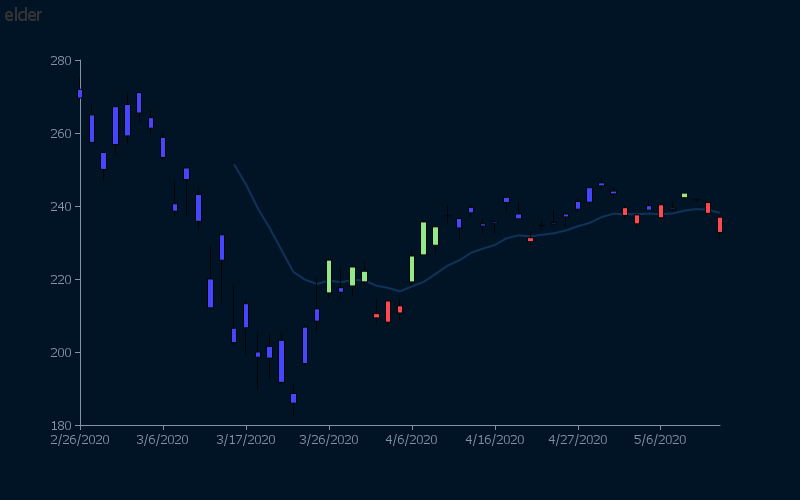
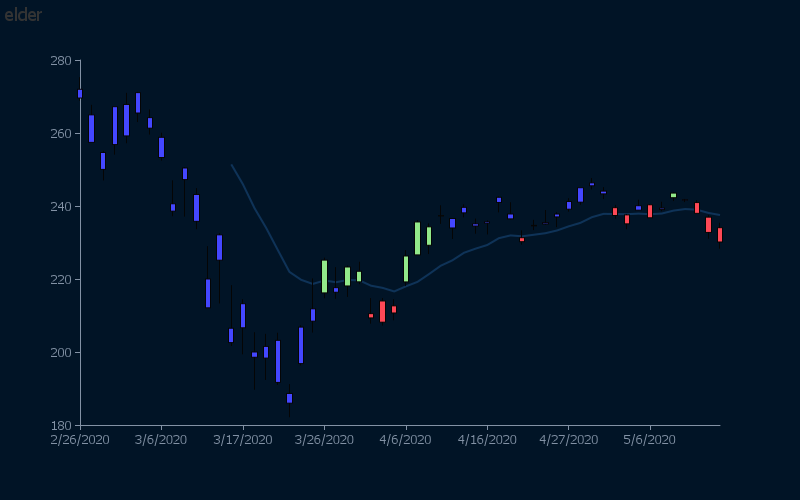
color change manually

diff --git a/graph/update/index.js b/graph/update/index.js
@@ -267,31 +267,64 @@ async function getNewData( symbol, colorData ) {
 }
 
 const getReadyColors = () => {
-    var colors = {
+    var colors1 = {
         Blue: '#4447ff',
         Red: '#fe4856',
         Green: '#92e98a',
     };
 
-    var colorsR = {
-        Blue: revertColor(colors.Blue),
-        Red: revertColor(colors.Red),
-        Green: revertColor(colors.Green)
+    var colors2 = {
+        Blue: '#2323ea',
+        Red: '#ea5445',
+        Green: '#23ea65'
     };
 
-    var borderColor = '#050505';
-    var borderColor0 = '#050505';
-    var backgroundColor = '#011426';
-    var xAxisColor = '#8392A5';
-    var yAxisColor = '#8392A5';
+    var borderColor_1 = '#050505';
+    var borderColor0_1 = '#050505';
+    var backgroundColor1 = '#011426';
+    var xAxisColor1 = '#8392A5';
+    var yAxisColor1 = '#8392A5';
     
-    var emaLineColor = { opacity: 0.5, color: '#1d528b' };
+    var emaLineColor1 = { opacity: 0.5, color: '#1d528b' };
+
+    var borderColor_2 = '#555555';
+    var borderColor0_2 = '#555555';
+    var backgroundColor2 = '#5134a6';
+    var xAxisColor2 = '#f32215';
+    var yAxisColor2 = '#f32215';
+    
+    var emaLineColor2 = { opacity: 0.5, color: '#fd5f8b' };
 
     var colorData = [];
-    colorData.push({ colors, borderColor, borderColor0 }, { colors: colorsR, borderColor: revertColor(borderColor), borderColor0: revertColor(borderColor0) });
+    colorData.push(
+        {
+            colors: colors1,
+            borderColor: borderColor_1,
+            borderColor0: borderColor0_1
+        },
+        {
+            colors: colors2,
+            borderColor: borderColor_2,
+            borderColor0: borderColor0_2
+        }
+    );
+
     var otherData = [];
-    otherData.push({ xAxisColor, yAxisColor, emaLineColor, backgroundColor }, { xAxisColor: revertColor(xAxisColor), yAxisColor: revertColor(yAxisColor), emaLineColor: { opacity: 0.5, color: revertColor(emaLineColor.color)}, backgroundColor: revertColor(backgroundColor) });
-    
+    otherData.push(
+        { 
+            xAxisColor: xAxisColor1, 
+            yAxisColor: yAxisColor1, 
+            emaLineColor: emaLineColor1, 
+            backgroundColor: backgroundColor1 
+        },
+        { 
+            xAxisColor: xAxisColor2, 
+            yAxisColor: yAxisColor2, 
+            emaLineColor: emaLineColor2, 
+            backgroundColor: backgroundColor2 
+        }
+    );
+
     return { colorData, otherData };
 }
 
